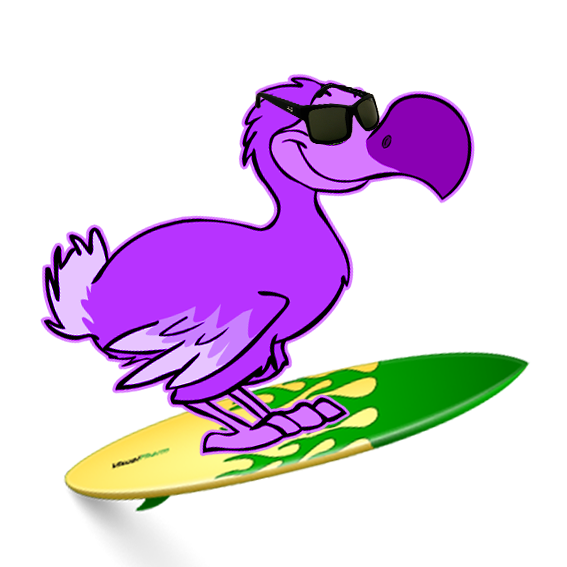
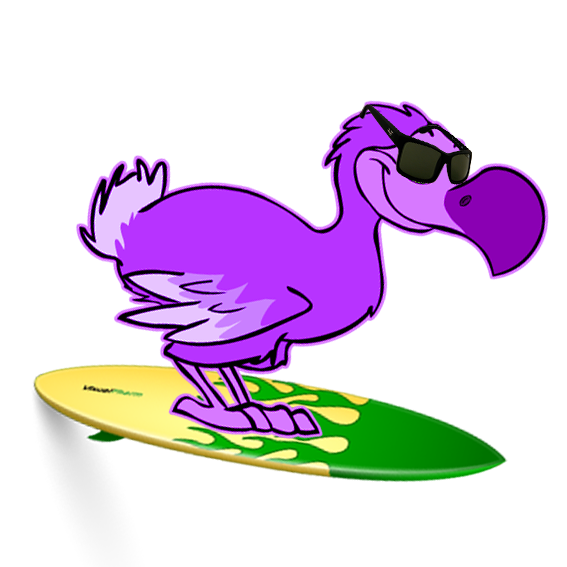
sss

diff --git a/SDL_Template3/Dodo.cpp b/SDL_Template3/Dodo.cpp
@@ -39,13 +39,13 @@ void Dodo::update(){
 			cycle_counter = 0;
 		}
 		cycle_counter += 1;
-		rect.y +=1;
+		//rect.y +=1;
 		break;
 	case DUCK:
 		current_clip = 2;
 		cycle_counter = 0;
 		jump_power += 1;
-		rect.y = 400;
+		rect.y = 330;
 		break;
 	case JUMP:
 		current_clip = 4;
